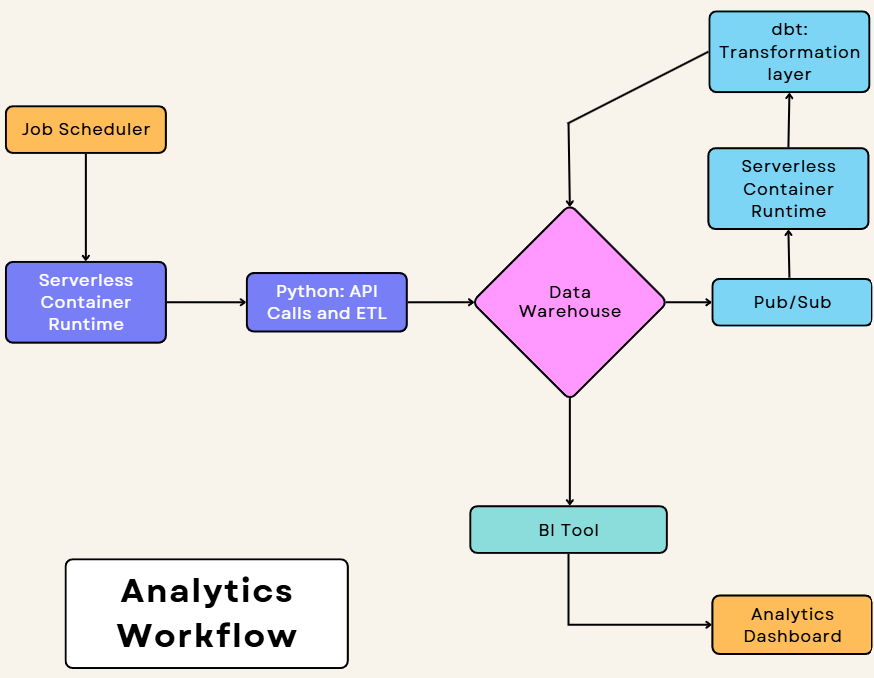
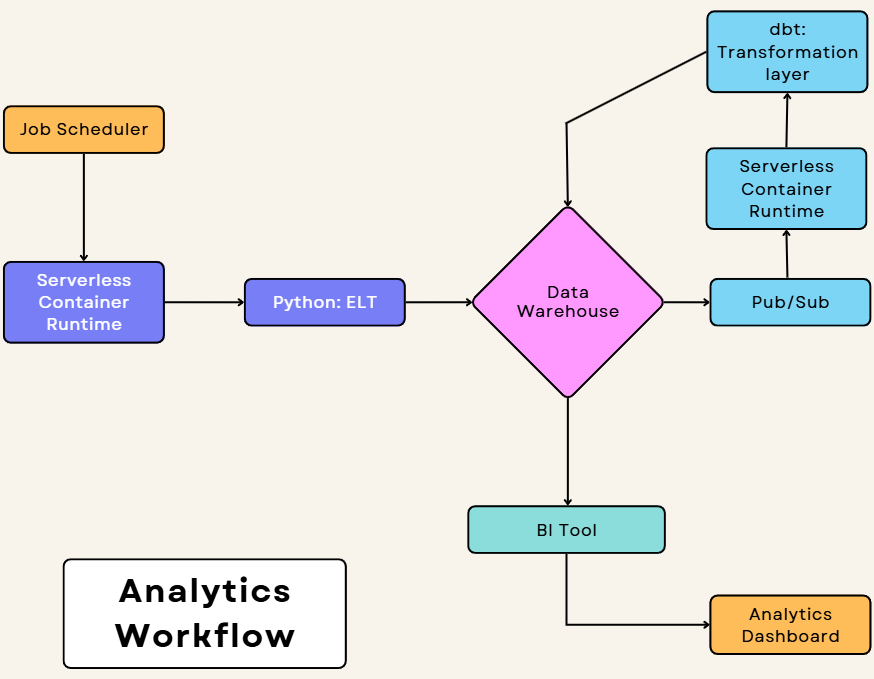
updating workflow image

diff --git a/README.md b/README.md
@@ -23,3 +23,6 @@ localization issues and provide insights into business strategies to drive growt
 ## Analytics Workflow
 
 ![Analytics Workflow](images/workflow.png)
+
+The complete workflow and process automation involves a cloud based scheduler to trigger AppTweak API calls on a daily/weekly
+schedule. Data transformation and quality tests are performed with Python. 
